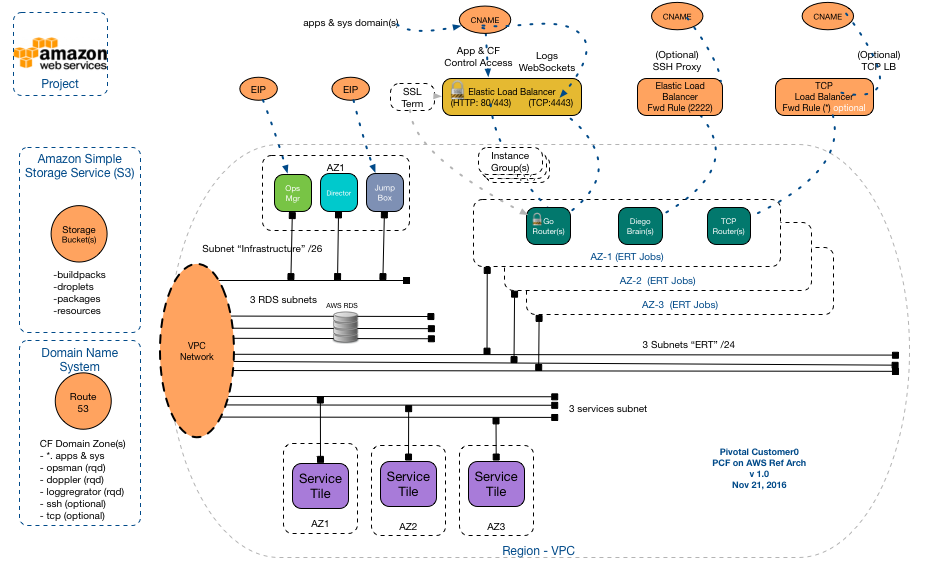
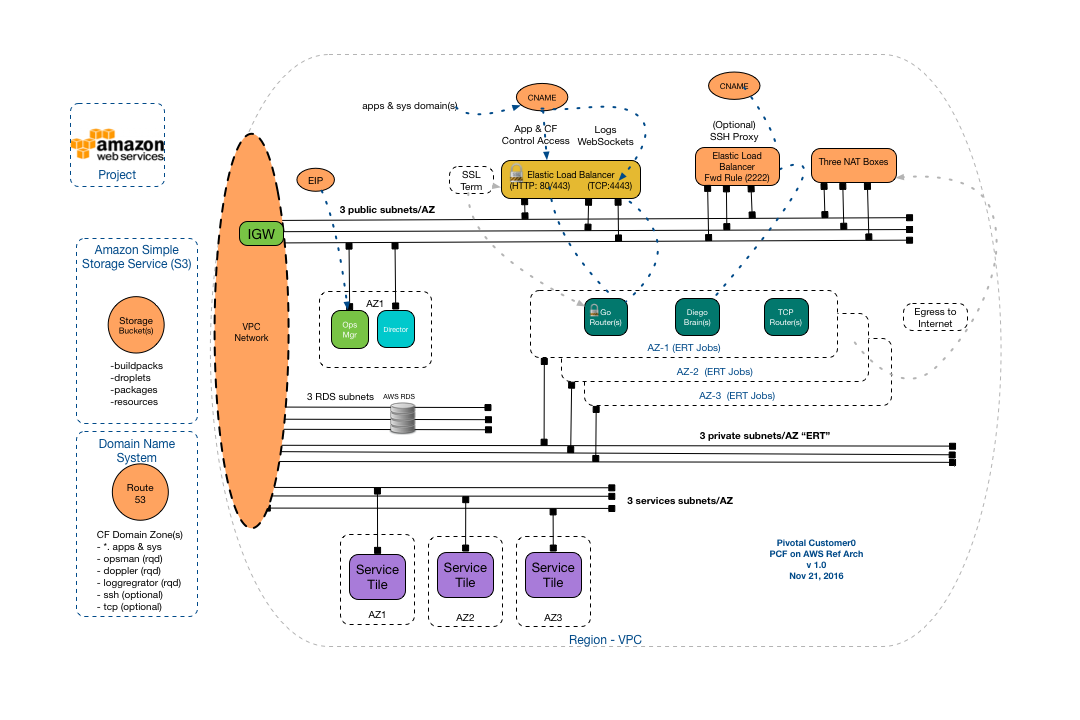
Continue refine the reference architecture

diff --git a/aws/refarch-main.md b/aws/refarch-main.md
@@ -28,85 +28,66 @@ PCF on AWS Reference Architecture Overview (*c0-aws-base*):![c0-aws-base v1.0.1]
 - [Running Pipeline Link](https://fly.customer0.net/teams/main/pipelines/c0-aws-deploy-ert-base) : See the Running Customer0 Concourse Pipelines
 
 
-###__PCF on GCP requires the following AWS Components__:
+### __PCF on AWS requires the following AWS Components__:
 
-##### Project/Region/Zones
+##### VPC/Region/AZ/Subnet
 
-A Cloud Foundry Deployment will exist within a single Project.  It will be located in a single AWS region and should distribute Cloud Foundry Jobs/Instances across 3 AWS zones to ensure a high degree of availability.  Each AWS Zone will map to a Cloud Foundry Availability Zone
+A Cloud Foundry Deployment will exist within a single VPC.  It will be located in a single AWS region and should distribute Cloud Foundry Jobs/Instances across 3 AWS Availability Zone to ensure a high degree of availability.  Each AWS subnet maps to one subnet.
 
-##### Google Cloud API
+##### EC2 Instance Quota
 
-Pivotal Ops Manager & BOSH will utilize the Google Compute Engine API, it must be enabled on a new Google Cloud subscription as it is not enabled by default
+Default quota on a new AWS subscription only has around 20 EC2 instances, which is not enough to host a multi-az deployment.
+The recommend quota for EC2 instances is 100. AWS require the instances quota tickets to include Primary Instance Types, which should be t2.micro
 
-
-#####Quotas
-
-Default quotas on a new AWS subscription will not have enough quota for a typical PCF deployment.  This Reference Architecture has been sized to host ~100 typical Cloud Foundry AIs.   You should request a Quota increase for the following Objects:
-
-| Resource        | Suggested Min Limit                   |
-| ----------------------------- |:-------------------------:|
-| CPUs *Region Specific*					|150|
-| Firewall Rules				   				|15|
-| Forwarding Rules				   			|5|
-| Global Forwarding Rules					|5|
-| Global Backend Services					|5|
-| Health Checks				   				|10|
-| Images				   						|10|
-| Static IP Addresses *Region Specific* & Assuming SNAT topology|5|
-| IP Addresses Global				   		|5|
-| IP Addresses *Region Specific*	& Assuming SNAT topology|5|
-| Networks 									|5|
-| Subnetworks									|5|
-| Routes										|20|
-| Target Pools								|10|
-| Target HTTP Proxies Global				|5|
-| Target HTTPS Proxies Global				|5|
-| Total persistent disk reserved (GB) *Region Specific* | 15,000 |
-
-#####Service Accounts
+##### Service Accounts
 
 Best practice PCF on AWS deployments requires 2 "Service Accounts"
 
-1. Operator Account -> "For Terraforming"
+1. Admin Account -> "For Terraforming"
 
-   - ? Need to work on.
+   - Terraform will use this admin account to provision required AWS resources as well as an IAM service account
 
 
 2. IAM Service Account -> "For OpsMan/BOSH"
 
-   - ? Need to work on
+   - The service account will be automatically provisioned with restricted access only to PCF needed resources. [C0 AWS IAM ](https://github.com/c0-ops/aws-concourse/blob/master/terraform/c0-aws-base/iam.tf)
 
 #####Networks
 
-Review Pipeline Network objects here: [C0 AWS Pipeline Terraform Network Objects](https://raw.githubusercontent.com/c0-ops/gcp-concourse/master/terraform/c0-gcp-base/2_networks.tf)
+Review Pipeline Network objects here: [C0 AWS Pipeline Terraform Network Objects](https://github.com/c0-ops/aws-concourse/blob/master/terraform/c0-aws-base/vpc.tf#L25)
 
-AWS Network objects allow multiple subnets with multiple CIDRs , so a typical deployment of PCF will likely only ever require 1 AWS Network object as well as 1 or more of the following:
+Each AWS subnet is tight to a particular AZ. As a result a multi-AZ deployment topologies require corresponding multi-subnets
 
 - **Subnets**
 
-	A minimum of 3 subnets are recommended:
-
-  ? Need to work on
-
-	1. *"infrastructure"* (/26) <->  This network will host:
-		- _["OpsManager","Director(aka BOSH)","Jumpbox"]_
-	2. *"ert"* (/22) <-> This network will host the core instances of cloud foundry:
+	1. 1 *"public"* subnet <->  This network will host:
+		- _["OpsManager","Director(aka BOSH), "NAT Boxes"]_
+	2. 3 *"ert"* (/24) subnets <-> These networks will host the core instances of cloud foundry:
 	   - _["GoRouters","Diego Cells","Cloud Controllers", "etc..."]_
-	3. *"services-#"* (/22) <->  This network ,as well as additional service networks, will host PCF managed service tiles:
-		- _["Rabbit","Mysql","Spring Cloud Services", "etc..."]_
+	3. 3 *"services-#"* subnets <->  These networks ,as well as additional service networks, will host PCF managed service tiles:
+  	 - _["Rabbit","Mysql","Spring Cloud Services", "etc..."]_
+  4. 3 *"RDS"* subnets <->  These networks will hosts the PCF management databases:
+     - _["Cloud Controller DB","UAA DB","etc..."]_   
 
 - **Routes**
 
-  ? - Need to work on
-	Routes are typically created by AWS dynamically when subnets are created, but C0 terraform scripts create additional routes to force outbound communication to dedicated SNAT nodes.  These objects are required to deploy PCF without public IP addresses.  (see Network Topology image)
+	Routes are created by AWS terraform pipeline that associates to each subnet:
+
+  * PublicSubnetRouteTable
+    This routing table enable the ingress/egress routing from/to internet through internet gateway for OpsManager, NAT Boxes
+  * PrivateSubnetRouteTable
+    This routing table enable the egress routing to the internet through the NAT boxes
+
+  *Note*: If an EC2 instance sits on a subnet attached with an Internet gateway as well as a public IP, it is ingress accessible from the internet. E.g. OpsManager
+
 
 - **External IPs**
 
 
 
-#####FireWall Rules
+#####Security Groups
 
-Review Pipeline Rules here:[C0 GCP Pipeline Terraform FW Rules](https://raw.githubusercontent.com/c0-ops/gcp-concourse/master/terraform/c0-gcp-base/3_firewalls.tf)
+Review Pipeline Security Group here:[C0 AWS Pipeline Terraform Security Group Rules](https://github.com/c0-ops/aws-concourse/blob/master/terraform/c0-aws-base/security_group.tf)
 
 ![rules_and_tags v1.0.0](../static/gcp/images/PCF-GCP-RefArch-Overview/firewall-rules.png)
 
